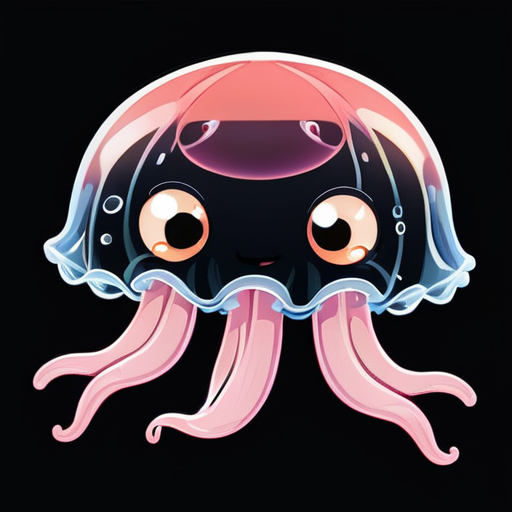
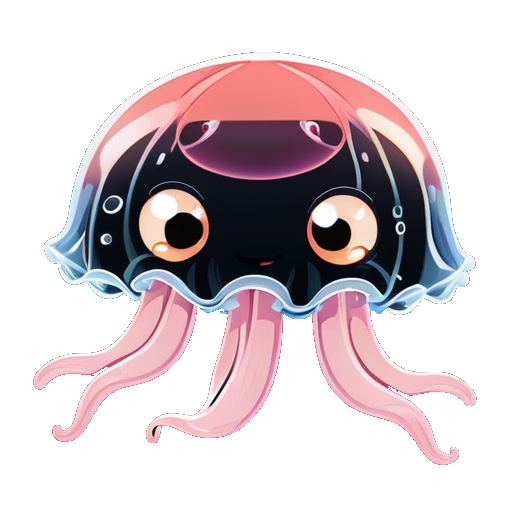
New images

diff --git a/app/server/models/initItems.js b/app/server/models/initItems.js
@@ -24,6 +24,46 @@ const defaultItems = [
   },
   {
     names: {
+      en: "Dolphin",
+      fr: "Dauphin"
+    },
+    price: 100,
+    imgSrc: "/assets/avatar/dauphin.png",
+    category: "baseAvatar",
+    eyePosition: { x: 50, y: 43 },
+  },
+  {
+    names: {
+      en: "Weird Fish",
+      fr: "Drole de Poisson"
+    },
+    price: 100,
+    imgSrc: "/assets/avatar/WeirdFish.png",
+    category: "baseAvatar",
+    eyePosition: { x: 50, y: 20 },
+  },
+  {
+    names: {
+      en: "Jellyfish",
+      fr: "Méduse"
+    },
+    price: 100,
+    imgSrc: "/assets/avatar/jellyfish.png",
+    category: "baseAvatar",
+    eyePosition: { x: 50, y: 43 },
+  },
+    {
+    names: {
+      en: "Shark",
+      fr: "Requin"
+    },
+    price: 100,
+    imgSrc: "/assets/avatar/shark.png",
+    category: "baseAvatar",
+    eyePosition: { x: 60, y: 34 },
+  },
+  {
+    names: {
       en: "Nothing",
       fr: "Rien"
     },
